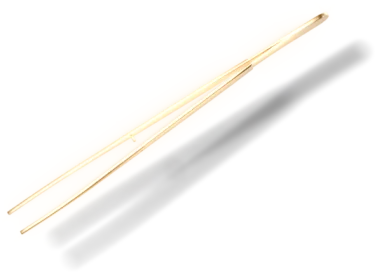
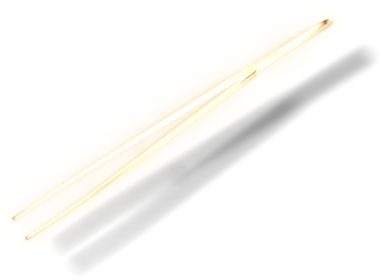
Home: dark hero so the gold instruments shine
The intro joins the dark sections (with their pointer light); the tweezers get more glow back.

diff --git a/duda/jaws-home-v3.html b/duda/jaws-home-v3.html
@@ -89,8 +89,8 @@
 #jaws-home#jaws-home .jh-btns{display:flex;flex-wrap:wrap;align-items:center;gap:14px}
 #jaws-home#jaws-home a:focus-visible,#jaws-home#jaws-home button:focus-visible,#jaws-home#jaws-home summary:focus-visible{outline:2px solid var(--teak-lt);outline-offset:4px}
 
-/* 1. intro and numbers */
-#jaws-home#jaws-home .jh-intro{background:var(--wall);padding:clamp(90px,11vw,170px) 0 clamp(60px,7vw,100px)}
+/* 1. intro and numbers: dark, so the gold instruments' glow and glints read, with the soft pointer light of the dark sections */
+#jaws-home#jaws-home .jh-intro{background:var(--night);padding:clamp(90px,11vw,170px) 0 clamp(60px,7vw,100px)}
 #jaws-home#jaws-home .jh-intro-h{font-size:clamp(42px,7.2vw,120px)}
 #jaws-home#jaws-home .jh-intro-row{display:grid;grid-template-columns:1fr 1fr;gap:clamp(36px,6vw,110px);align-items:start;margin-top:clamp(26px,3vw,44px)}
 #jaws-home#jaws-home .jh-intro-row .jh-es{margin:0}
@@ -100,6 +100,10 @@
 /* a lower optical size keeps the hairlines of big gold numbers and names from vanishing */
 #jaws-home#jaws-home .jh-stats dt{font:500 clamp(52px,5.8vw,96px)/1 var(--serif);letter-spacing:-.03em;font-variation-settings:"opsz" 28}
 #jaws-home#jaws-home .jh-stats dd{margin-top:14px;max-width:16ch;font:500 15px/1.35 var(--sans);color:var(--soft)}
+#jaws-home#jaws-home .jh-dark .jh-stats{border-top-color:rgba(243,226,188,.16)}
+#jaws-home#jaws-home .jh-dark .jh-stats>div+div{border-left-color:rgba(243,226,188,.12)}
+#jaws-home#jaws-home .jh-dark .jh-stats dd{color:#B9B1A4}
+#jaws-home#jaws-home .jh-dark .jh-link{color:#F3EADB;border-bottom-color:rgba(243,226,188,.4)}
 #jaws-home#jaws-home .jh-intro .jh-fine{margin-top:26px}
 /* floating gold instruments (NVIDIA SimReady models, CC BY 4.0) as 36-frame turns drawn on canvas, their shadow, the
    gold's warm bounce and the glare baked in: the pointer (or the scroll, on touch screens) turns them; the tweezers
@@ -110,11 +114,12 @@
 @keyframes jhBob{from{translate:0 -7px}to{translate:0 9px}}
 #jaws-home#jaws-home .jh-tool-hemostat{width:clamp(170px,24vw,380px);aspect-ratio:473/402;right:2.5%;top:2%;animation-duration:7s}
 #jaws-home#jaws-home .jh-tool-scalpel{width:clamp(140px,17vw,280px);aspect-ratio:414/294;left:6%;top:52%;animation-duration:5.2s;animation-delay:-2s}
-#jaws-home#jaws-home .jh-tool-tweezers{width:clamp(150px,17vw,270px);aspect-ratio:377/274;left:0;top:0;opacity:0;animation:none;
+#jaws-home#jaws-home .jh-tool-tweezers{width:clamp(150px,17vw,270px);aspect-ratio:382/280;left:0;top:0;opacity:0;animation:none;
   background:no-repeat 0 0/100% 100%;transition:transform 1.1s cubic-bezier(.2,.7,.2,1),opacity .6s ease}
 #jaws-home#jaws-home .jh-tool-tweezers.is-in{opacity:1}
 #jaws-home#jaws-home .jh-lift{display:inline-block;transition:transform 1.1s cubic-bezier(.2,.7,.2,1),filter 1.1s ease}
 #jaws-home#jaws-home .jh-lift.is-lifted{transform:translate3d(0,var(--lift,-14px),0) rotate(-1.5deg);filter:drop-shadow(8px 18px 12px rgba(42,40,39,.2))}
+#jaws-home#jaws-home .jh-dark .jh-lift.is-lifted{filter:drop-shadow(8px 18px 14px rgba(0,0,0,.55))}
 #jaws-home#jaws-home .jh-lift.is-lifted,#jaws-home#jaws-home .jh-tool-tweezers.is-lifted{animation:jhBob 6s ease-in-out infinite alternate}
 @media (max-width:900px){#jaws-home#jaws-home .jh-tool-scalpel,#jaws-home#jaws-home .jh-tool-hemostat{display:none}
   #jaws-home#jaws-home .jh-tool-tweezers{width:clamp(160px,44vw,260px)}}
@@ -367,7 +372,7 @@
 
 <div id="jaws-home">
 
-  <section class="jh-intro" aria-labelledby="jh-intro-t">
+  <section class="jh-intro jh-dark" aria-labelledby="jh-intro-t">
     <div class="jh-tools" aria-hidden="true">
       <canvas class="jh-tool jh-tool-hemostat" data-tool="hemostat"></canvas>
       <canvas class="jh-tool jh-tool-scalpel" data-tool="scalpel"></canvas>
@@ -955,7 +960,7 @@
   var liftEl = intro && intro.querySelector('.jh-lift');
   var TOOLS_BASE = 'https://xiiixiultra-maker.github.io/jaws-walk/tools3d/';
   var TURN_N = 36, TURN_COLS = 6;
-  var TWEEZ = { desk: [377, 274, 0.0344, 0.812], phone: [428, 95, 0.0375, 0.3586] };   // image size, tips (share of it)
+  var TWEEZ = { desk: [382, 280, 0.0468, 0.8158], phone: [430, 98, 0.0438, 0.377] };   // image size, tips (share of it)
   var LIFT = -14, lifted = false, toolsOn = false, toolsVis = false, layers = [];
   var turn = { want: 17, shown: 17, on: false };
   if (liftEl) liftEl.style.setProperty('--lift', LIFT + 'px');
